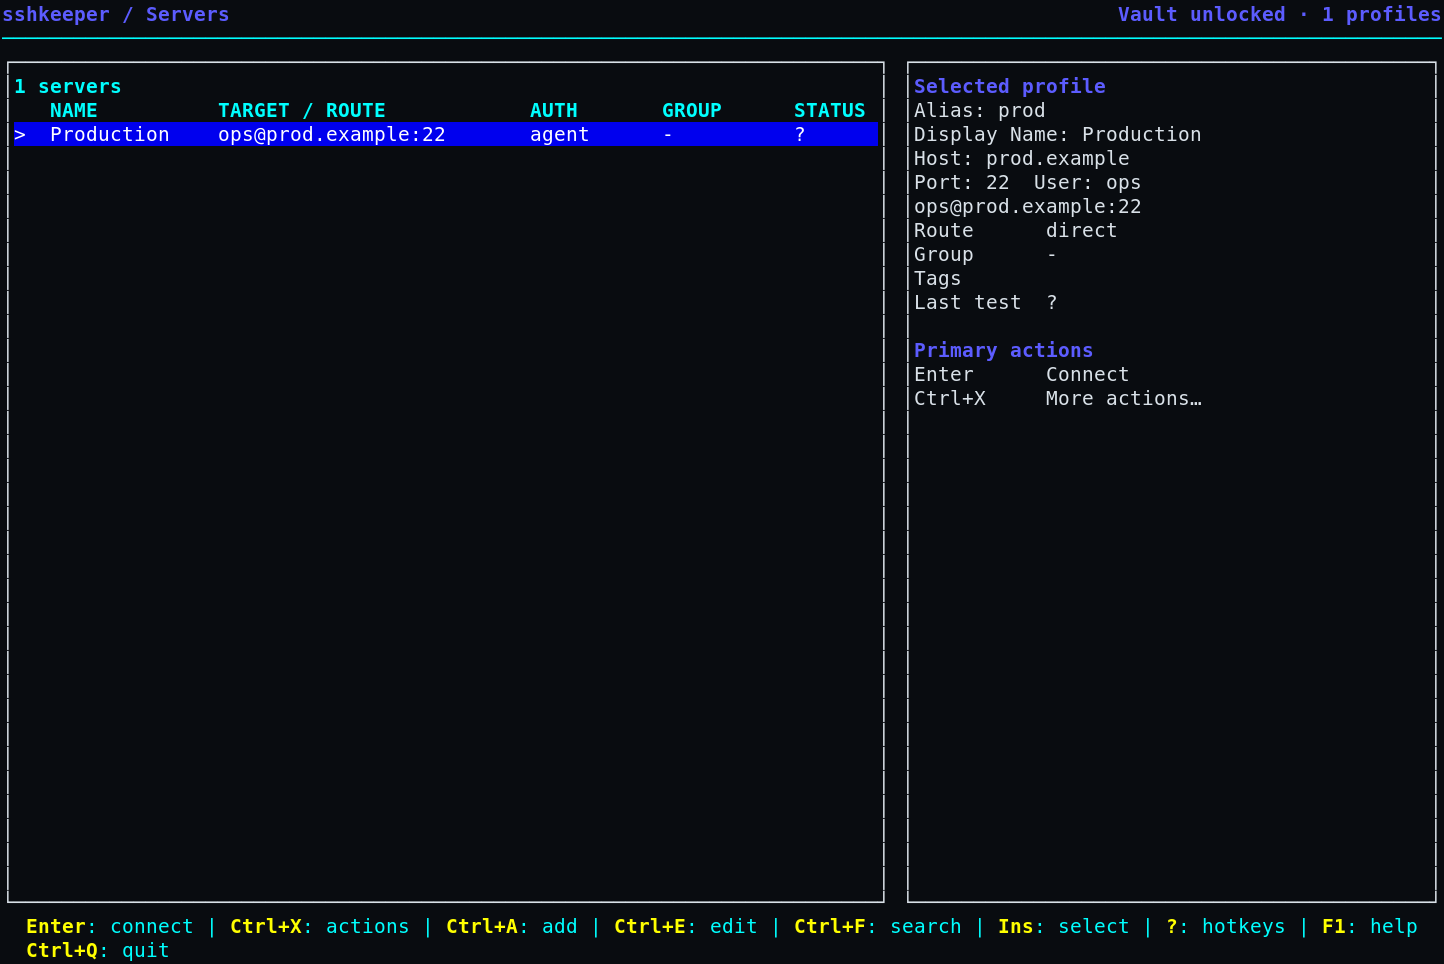
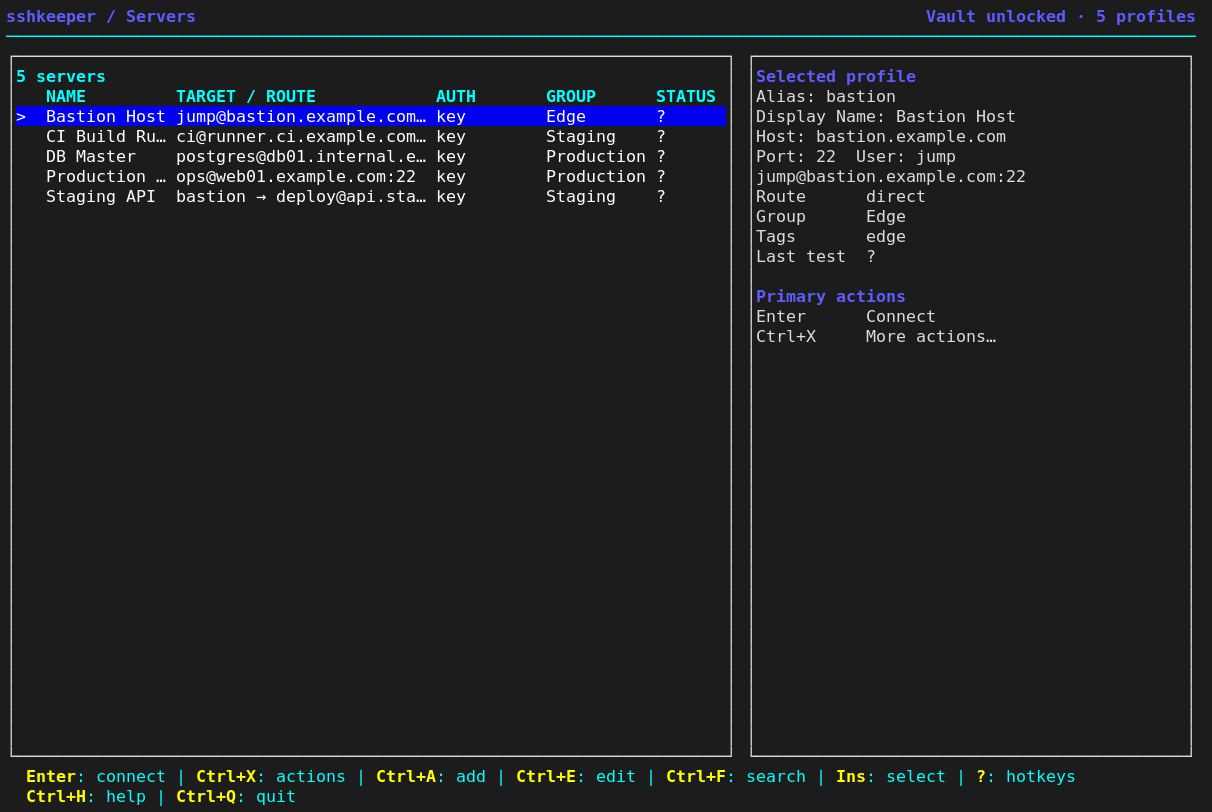
docs: refresh unified tui screenshots
Complete the final task of the unified TUI shell plan, which had been left
undone: the code dropped F1 in favour of Ctrl+H, but README and the guide
still documented F1 as the full-help key in nine places, and the repository
screenshots still showed the pre-shell UI.

- Replace every F1 reference in README.md and docs/guide.md with Ctrl+H,
  including the two ASCII help blocks that mirror runtime output.
- Document the BS/DEL terminal constraint: Ctrl+H is BS (0x08) while xterm
  sends DEL (0x7F) for Backspace, so help and text editing do not collide.
- Recapture all five screenshots from the current binary in a real xterm at
  120x40, 80x24 and 60x16 using an isolated XDG profile.

Runtime verification in xterm confirms Ctrl+H opens full help while seven
Backspace presses correctly trim typed text, and that every captured screen
carries the header, framed content and bottom-anchored footer.

Changed region(s): [[0.0, 0.0, 1.0, 1.0]]

diff --git a/docs/guide.md b/docs/guide.md
@@ -170,7 +170,7 @@ Auth: agent  Group: -  Status: ?
 | `Ctrl+F` | Поиск |
 | `Ins` | Выбрать/снять выбор |
 | `?` | Краткая справка по клавишам |
-| `F1` | Полная справка по приложению |
+| `Ctrl+H` | Полная справка по приложению |
 | `Ctrl+Q` | Выход |
 
 `Ctrl+Q` работает глобально. Если активная форма содержит несохранённые
@@ -179,7 +179,7 @@ Auth: agent  Group: -  Status: ?
 ### Быстрая справка по клавишам
 
 Нажмите `?` на экране списка или менеджера. В текстовом поле символ `?`
-остаётся обычным вводом. `F1` открывает полную справку также из форм.
+остаётся обычным вводом. `Ctrl+H` открывает полную справку также из форм.
 
 ```
 sshkeeper — Quick Help
@@ -211,14 +211,20 @@ sshkeeper — Quick Help
 
   Other
   ?               This quick help
-  F1              Full documentation
+  Ctrl+H          Full documentation
 
   Esc / Enter / ? / q — close
 ```
 
 ### Полная справка по приложению
 
-Нажмите `F1` на любом экране. Это полная документация по sshkeeper:
+Нажмите `Ctrl+H` на любом экране. Это полная документация по sshkeeper:
+
+> **Про терминалы.** `Ctrl+H` — это управляющий символ BS (0x08), а Backspace в
+> xterm и большинстве современных эмуляторов шлёт DEL (0x7F), поэтому справка и
+> редактирование текста не конфликтуют. Если ваш терминал настроен отправлять BS
+> по Backspace, различить их невозможно: Backspace начнёт открывать справку.
+> В этом случае переключите терминал на DEL (в xterm — `backarrowKey: false`).
 
 ```
 sshkeeper — Full Help
@@ -238,7 +244,7 @@ sshkeeper — Full Help
   Enter           Select / Confirm / Open
   Esc             Back / Cancel / Close
   ?               Quick help (hotkeys)
-  F1              Full documentation
+  Ctrl+H          Full documentation
   Ctrl+Q          Quit
 
   Server list
@@ -743,7 +749,7 @@ sshkeeper connect secure
 | `Ctrl+X` | Меню действий |
 | `Ins` | Выбрать/снять выбор |
 | `?` | Краткая справка по клавишам |
-| `F1` | Полная справка по приложению |
+| `Ctrl+H` | Полная справка по приложению |
 | `Ctrl+Q` | Выход |
 
 ### Меню действий (Ctrl+X)

diff --git a/README.md b/README.md
@@ -111,10 +111,15 @@ sshkeeper / Servers                                  Vault unlocked · 1 profile
 Press `?` outside text editors for a compact hotkey reference. Inside forms and
 search, `?` remains normal text input.
 
-### Full Help (F1)
+### Full Help (Ctrl+H)
 
-Press `F1` on any screen for full documentation including routes, port
+Press `Ctrl+H` on any screen for full documentation including routes, port
 forwarding, tunnels, and vault.
+
+`Ctrl+H` is the BS control character (0x08). xterm and most modern emulators
+send DEL (0x7F) for Backspace, so help and text editing never collide. A
+terminal configured to send BS for Backspace cannot distinguish the two; switch
+it to DEL (in xterm, `backarrowKey: false`).
 
 ### Screenshots
 
@@ -138,7 +143,7 @@ forwarding, tunnels, and vault.
 | Ctrl+X | Action menu (connect, tunnels, forwards, route, test, edit, delete, import/export, vault actions) |
 | Ins | Select / deselect a server |
 | ? | Quick help (hotkeys) |
-| F1 | Full documentation |
+| Ctrl+H | Full documentation |
 | Ctrl+Q / Ctrl+C | Quit |
 
 Templates are global entities and can run on any server. Foreground template
